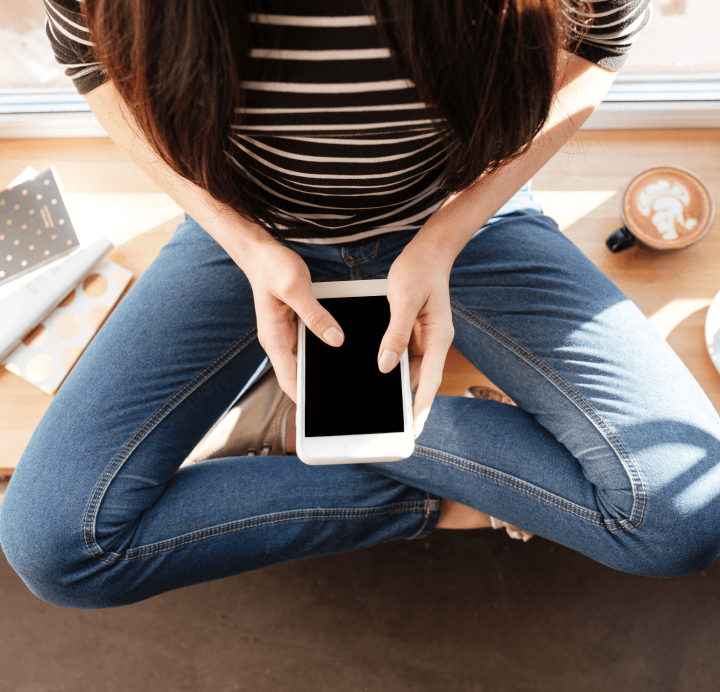
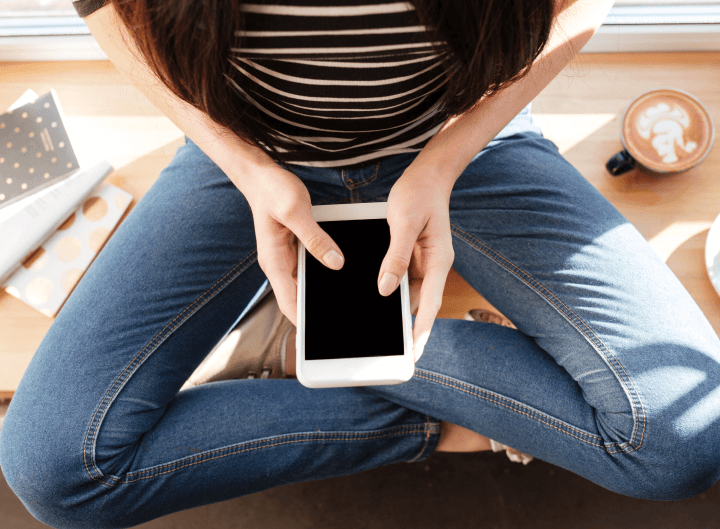
“エンタープライズのintro-rightの写真の表示を調整”

diff --git a/css/kComstyle.css b/css/kComstyle.css
@@ -503,11 +503,16 @@ h4 {
 .intro .right .screenBox {
 	position: absolute;
 	right: 70%;
-	width: 80%;
+	width: 70%;
 	top: 50%;
-	transform: translate(0, -45%);
+	transform: translate(0, -50%);
 	text-align: center;
 }
+.intro .right .screenBox img {
+	box-shadow: 0px 8px 24px rgba(0, 0, 0, 0.15);
+	border-radius: 4px;
+}
+
 .intro p {
 	font-size: 14px;
 	font-weight: 300;
